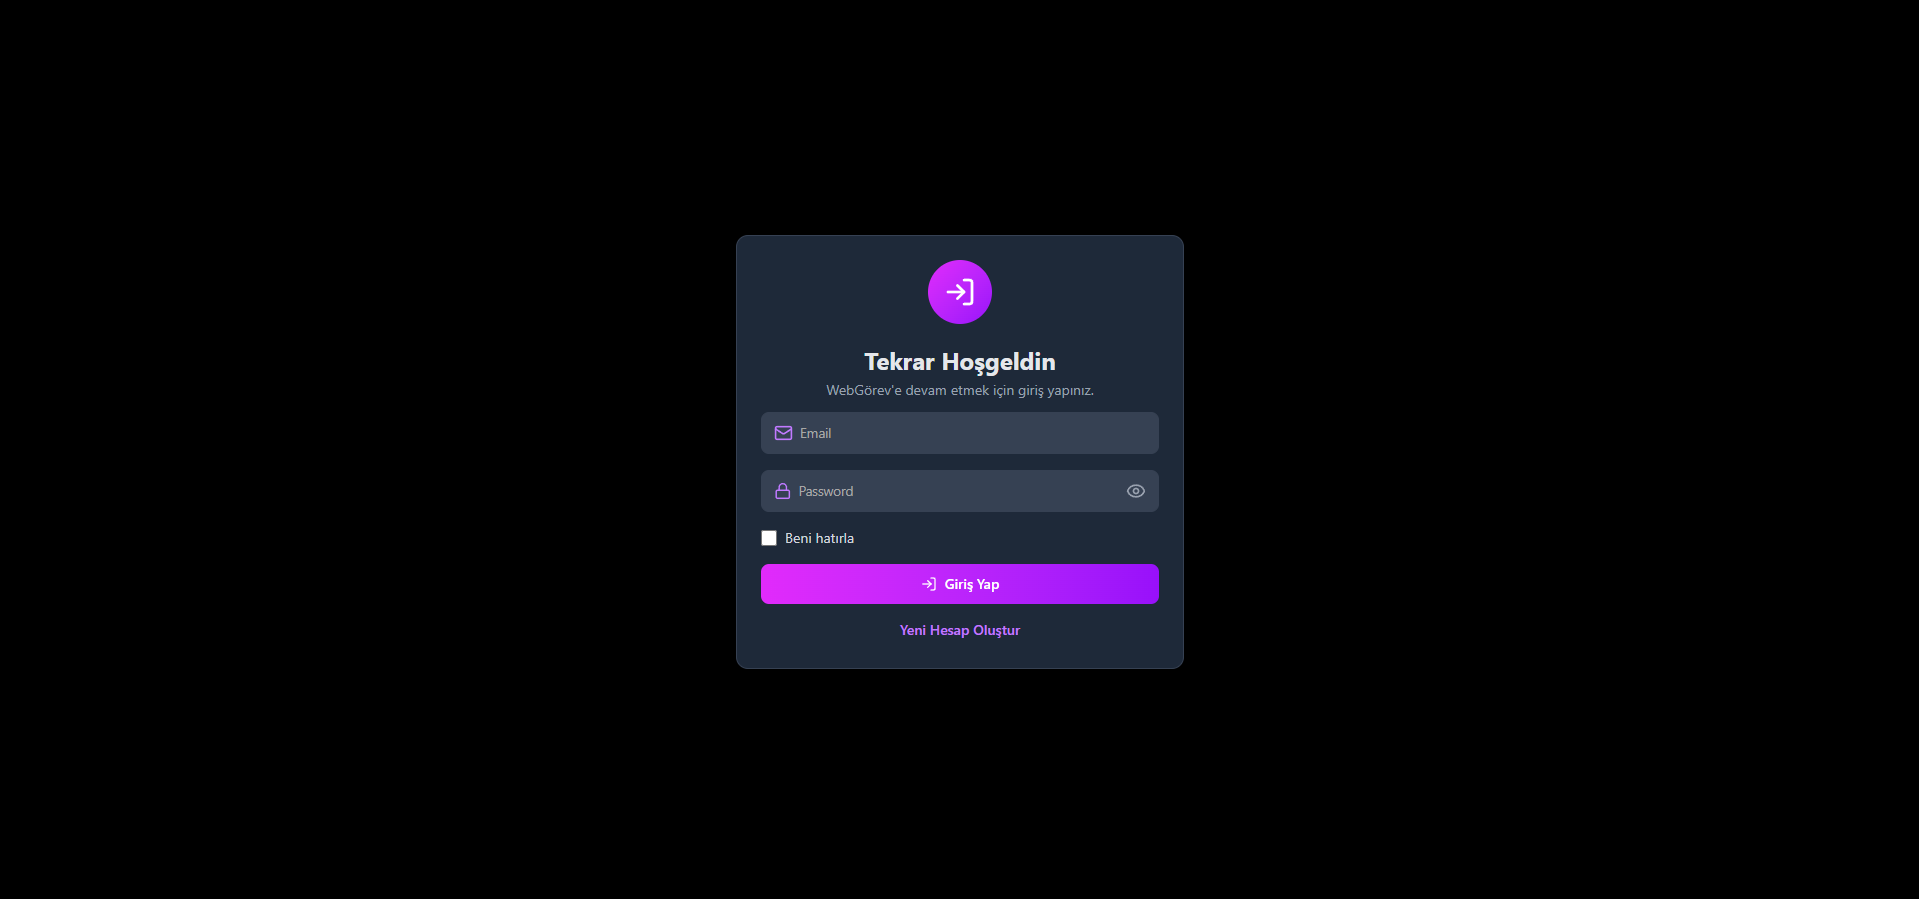
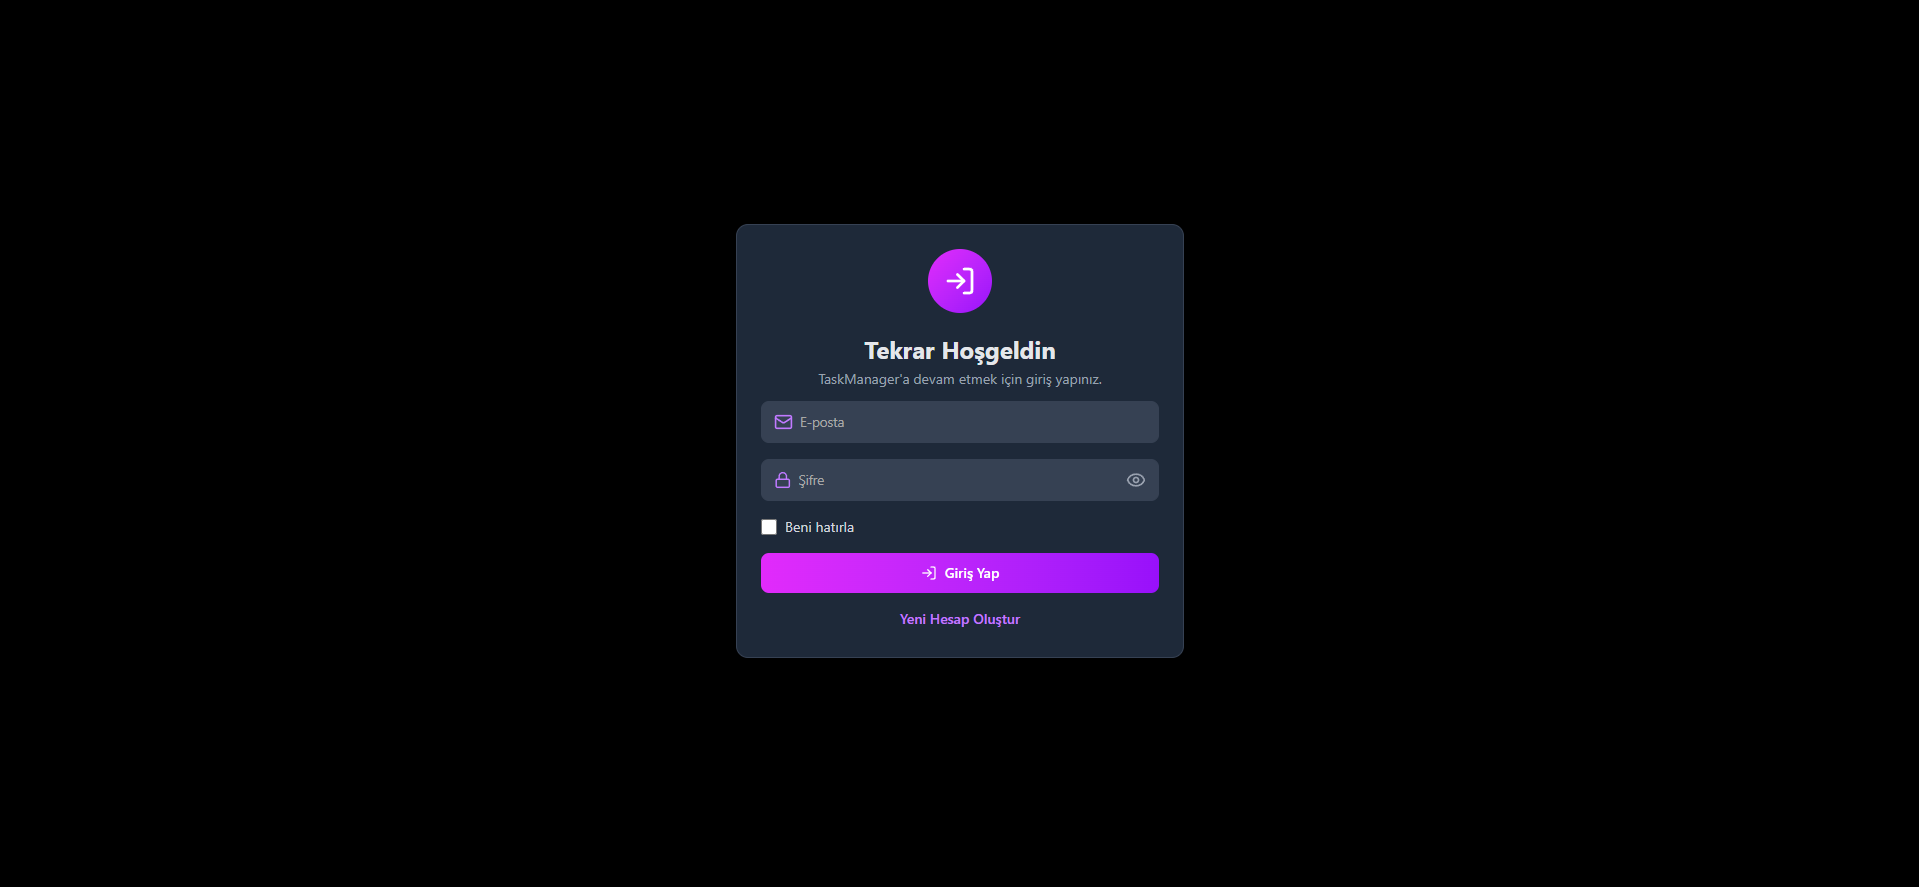
TaskManager

Changed region(s): [[0.3689, 0.2435, 0.6149, 0.761]]

diff --git a/frontend/src/components/SignUp.jsx b/frontend/src/components/SignUp.jsx
@@ -33,9 +33,9 @@ const SignUp = ({onSwitchMode}) => {
     }
   }
   const FIELDS = [
-  { name: "name", type: "text", placeholder: "Full Name", icon: User },
-  { name: "email", type: "email", placeholder: "Email", icon: Mail },
-  { name: "password", type: "password", placeholder: "Password", icon: Lock },
+  { name: "name", type: "text", placeholder: "Ad Soyad", icon: User },
+  { name: "email", type: "email", placeholder: "E-posta", icon: Mail },
+  { name: "password", type: "password", placeholder: "Şifre", icon: Lock },
 ];
 
   return (
@@ -50,7 +50,7 @@ const SignUp = ({onSwitchMode}) => {
           Hesap Oluştur
         </h2>
         <p className='text-gray-500 dark:text-gray-400 text-sm mt-1'>
-          WebGöreve Katıl ve Görevlerini Yönet
+          TaskManager'a Katıl ve Görevlerini Yönet
         </p>
 
       </div>
@@ -70,7 +70,7 @@ const SignUp = ({onSwitchMode}) => {
           </div>
         ))}
         <button type='submit' className={BUTTONCLASSES} disabled={loading}>
-          {loading ? "Signing Up..." : <><UserPlus className='w-4 h-4' />Sign Up</>}
+          {loading ? "Giriş yapılıyor..." : <><UserPlus className='w-4 h-4' />Giriş Yap</>}
 
         </button>
       </form>

diff --git a/frontend/src/components/Login.jsx b/frontend/src/components/Login.jsx
@@ -78,8 +78,8 @@ const handleSwitchMode=() => {
 }
 
 const FIELDS = [
-  { name: "email", type: "email", placeholder: "  Email", icon: Mail },
-  { name: "password", type: showPassword ? "text" :"password", placeholder: "  Password", icon: Lock, isPassword: true },
+  { name: "email", type: "email", placeholder: "  E-posta", icon: Mail },
+  { name: "password", type: showPassword ? "text" :"password", placeholder: "  Şifre", icon: Lock, isPassword: true },
 ];
 
   return (
@@ -94,7 +94,7 @@ const FIELDS = [
           Tekrar Hoşgeldin
         </h2>
         <p className='text-gray-500 dark:text-gray-400 text-sm mt-1 mb-3'>
-          WebGörev'e devam etmek için giriş yapınız.
+          TaskManager'a devam etmek için giriş yapınız.
         </p>
         <form onSubmit={handleSubmit} className='space-y-4'>
           {FIELDS.map(({name,type,placeholder,icon :Icon, isPassword}) =>(

diff --git a/README.md b/README.md
@@ -9,7 +9,6 @@ TaskManager is a modern and user-friendly task management application developed 
 - 🏷 Categorize Tasks by Priority Levels
 - 📅 Set Due Dates for Tasks
 - ✅ Mark Tasks as Completed
-- 🌓 Dark/Light Theme Support
 - 📱 Responsive Design
 
 ## Technologies
